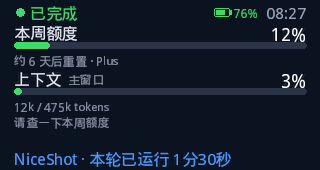
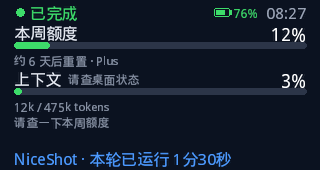
Use the Codex sidebar title beside the context row.
session_index.jsonl supplies the latest thread_name for a chat. Child
pages show that parent title, while the summary line can still be the
sub-agent task name.

Changed region(s): [[0.1875, 0.4118, 0.4375, 0.5294]]

diff --git a/host/codex_status.py b/host/codex_status.py
@@ -40,6 +40,7 @@ from parse_session import (
     merge_quota,
     parse_file,
     read_session_head,
+    thread_title_ids,
 )
 
 
@@ -105,6 +106,93 @@ def page_sort_key(payload: dict, focus_id: object) -> tuple[int, str]:
     return (0 if identity and identity == focus_id else 1, identity)
 
 
+def load_thread_titles(path: Path) -> dict[str, str]:
+    """Latest sidebar name for each thread id in ``session_index.jsonl``.
+
+    Codex appends one ``{id, thread_name, updated_at}`` line per rename.
+    The newest ``updated_at`` wins. A missing timestamp, or a tie, keeps
+    the later line.
+    """
+    best: dict[str, tuple[str, str, int]] = {}
+    try:
+        lines = path.read_text(encoding="utf-8").splitlines()
+    except OSError:
+        return {}
+    for seq, line in enumerate(lines):
+        line = line.strip()
+        if not line:
+            continue
+        try:
+            record = json.loads(line)
+        except json.JSONDecodeError:
+            continue
+        if not isinstance(record, dict):
+            continue
+        thread_id = record.get("id")
+        title = record.get("thread_name")
+        if not isinstance(thread_id, str) or not isinstance(title, str):
+            continue
+        thread_id = thread_id.strip()
+        title = title.strip()
+        if not thread_id or not title:
+            continue
+        updated = record.get("updated_at")
+        updated_at = updated.strip() if isinstance(updated, str) else ""
+        previous = best.get(thread_id)
+        if previous is None:
+            best[thread_id] = (updated_at, title, seq)
+            continue
+        old_at, _, old_seq = previous
+        if not updated_at or not old_at:
+            if seq >= old_seq:
+                best[thread_id] = (updated_at or old_at, title, seq)
+            continue
+        if updated_at > old_at or (updated_at == old_at and seq >= old_seq):
+            best[thread_id] = (updated_at, title, seq)
+    return {thread_id: title for thread_id, (_, title, _) in best.items()}
+
+
+def clip_sidebar_title(title: str, limit: int = 32) -> str:
+    if len(title) <= limit:
+        return title
+    return title[: limit - 1].rstrip() + "…"
+
+
+def apply_sidebar_title(payload: dict, view: SessionView, titles: dict[str, str]) -> dict:
+    for thread_id in thread_title_ids(view):
+        title = titles.get(thread_id)
+        if title:
+            payload["window_name"] = clip_sidebar_title(title)
+            return payload
+    return payload
+
+
+class ThreadTitleIndex:
+    """Reload ``session_index.jsonl`` only when the append-only file changes."""
+
+    def __init__(self) -> None:
+        self.path: Path | None = None
+        self.signature: tuple[int, int] | None = None
+        self.titles: dict[str, str] = {}
+
+    def get(self, codex_home: Path) -> dict[str, str]:
+        path = Path(codex_home).expanduser() / "session_index.jsonl"
+        try:
+            stat = path.stat()
+        except OSError:
+            self.path = path
+            self.signature = None
+            self.titles = {}
+            return self.titles
+        signature = (stat.st_mtime_ns, stat.st_size)
+        if self.path == path and self.signature == signature:
+            return self.titles
+        self.path = path
+        self.signature = signature
+        self.titles = load_thread_titles(path)
+        return self.titles
+
+
 def stamp_page(payload: dict, index: int, count: int) -> dict:
     payload["page_index"] = index
     payload["page_count"] = count
@@ -126,6 +214,7 @@ class Engine:
         self.hold_session: str | None = None
         self.rotation_ids: tuple[str, ...] | None = None
         self.rotation_anchor: float | None = None
+        self.thread_titles = ThreadTitleIndex()
 
     def payload(
         self,
@@ -140,6 +229,7 @@ class Engine:
             message = "还没有 Codex 会话" if sessions.is_dir() else "找不到 ~/.codex/sessions"
             return stamp_page(empty_payload(now, tz_offset_seconds, message), 1, 1)
         focus_path = self.select_main(files)
+        titles = self.thread_titles.get(codex_home)
         try:
             focus_view = self.follower.sync(focus_path)
         except OSError as exc:
@@ -156,6 +246,7 @@ class Engine:
             hook,
             is_focus=True,
             file_mtime=self.focus_mtime(focus_path, focus_view, fresh),
+            titles=titles,
         )
         running = []
         if focus_payload["status"] == "running":
@@ -170,6 +261,7 @@ class Engine:
                 hook,
                 is_focus=False,
                 file_mtime=mtime,
+                titles=titles,
             )
             if page["status"] == "running":
                 running.append(page)
@@ -307,6 +399,7 @@ class Engine:
         hook: HookHint | None,
         is_focus: bool,
         file_mtime: float | None,
+        titles: dict[str, str],
     ) -> dict:
         shown = view if (view.weekly or view.five_hour) else merge_quota(view, pool)
         payload = build_payload(
@@ -319,7 +412,7 @@ class Engine:
         )
         if payload["source"] == "session" and not payload["has_session"]:
             payload["has_session"] = True
-        return payload
+        return apply_sidebar_title(payload, view, titles)
 
     def note_focus(self, now: float, focus_payload: dict) -> None:
         status = str(focus_payload.get("status") or "")

diff --git a/firmware/scripts/preview_ui.py b/firmware/scripts/preview_ui.py
@@ -201,11 +201,11 @@ def main():
         Face(attach_levels(num_g, num_b), num_h),
     )
     states = [
-        ("running", {"link": "ok", "label": "执行中 · 跑命令", "color": "orange", "weekly": 16, "weekly_sub": "约 6 天后重置 · Pro", "context": 73.47, "context_sub": "349k / 475k tokens", "footer": "NiceShot · 本轮已运行 4分12秒", "clock": "08:27", "battery_kind": "level", "battery": 76, "battery_text": "76%", "page": "2/4", "summary": "请把桌面状态改一下", "window_name": "design review"}),
-        ("thinking", {"link": "ok", "label": "执行中 · 思考中", "color": "orange", "weekly": 16, "weekly_sub": "约 6 天后重置 · Pro", "context": 48, "context_sub": "228k / 475k tokens", "footer": "NiceShot · 本轮已运行 18秒", "clock": "08:27", "battery_kind": "level", "battery": 76, "battery_text": "76%", "summary": "请把桌面状态改一下", "window_name": "主窗口"}),
-        ("complete", {"link": "ok", "label": "已完成", "color": "green", "weekly": 12, "weekly_sub": "约 6 天后重置 · Plus", "context": 2.53, "context_sub": "12k / 475k tokens", "footer": "NiceShot · 本轮已运行 1分30秒", "clock": "08:27", "battery_kind": "level", "battery": 76, "battery_text": "76%", "summary": "请查一下本周额度", "window_name": "主窗口"}),
-        ("interrupted", {"link": "ok", "label": "已中断", "color": "red", "weekly": 20, "weekly_sub": "约 6 天后重置 · Pro", "context": 4.23, "context_sub": "20.1k / 475k tokens", "footer": "NiceShot · 本轮已运行 1分10秒", "clock": "08:27", "battery_kind": "level", "battery": 12, "battery_text": "12%", "summary": "请查一下本周额度", "window_name": "主窗口"}),
-        ("quota", {"link": "ok", "label": "额度将尽 · 思考中", "color": "red", "weekly": 96, "weekly_sub": "约 6 天后重置 · Pro", "context": 95.16, "context_sub": "452k / 475k tokens", "footer": "NiceShot · 本轮已运行 1分6秒", "clock": "08:27", "battery_kind": "level", "battery": 76, "battery_text": "76%", "summary": "请把桌面状态改一下", "window_name": "主窗口"}),
+        ("running", {"link": "ok", "label": "执行中 · 跑命令", "color": "orange", "weekly": 16, "weekly_sub": "约 6 天后重置 · Pro", "context": 73.47, "context_sub": "349k / 475k tokens", "footer": "NiceShot · 本轮已运行 4分12秒", "clock": "08:27", "battery_kind": "level", "battery": 76, "battery_text": "76%", "page": "2/4", "summary": "请把桌面状态改一下", "window_name": "请查桌面状态"}),
+        ("thinking", {"link": "ok", "label": "执行中 · 思考中", "color": "orange", "weekly": 16, "weekly_sub": "约 6 天后重置 · Pro", "context": 48, "context_sub": "228k / 475k tokens", "footer": "NiceShot · 本轮已运行 18秒", "clock": "08:27", "battery_kind": "level", "battery": 76, "battery_text": "76%", "summary": "请把桌面状态改一下", "window_name": "请查桌面状态"}),
+        ("complete", {"link": "ok", "label": "已完成", "color": "green", "weekly": 12, "weekly_sub": "约 6 天后重置 · Plus", "context": 2.53, "context_sub": "12k / 475k tokens", "footer": "NiceShot · 本轮已运行 1分30秒", "clock": "08:27", "battery_kind": "level", "battery": 76, "battery_text": "76%", "summary": "请查一下本周额度", "window_name": "请查桌面状态"}),
+        ("interrupted", {"link": "ok", "label": "已中断", "color": "red", "weekly": 20, "weekly_sub": "约 6 天后重置 · Pro", "context": 4.23, "context_sub": "20.1k / 475k tokens", "footer": "NiceShot · 本轮已运行 1分10秒", "clock": "08:27", "battery_kind": "level", "battery": 12, "battery_text": "12%", "summary": "请查一下本周额度", "window_name": "请查桌面状态"}),
+        ("quota", {"link": "ok", "label": "额度将尽 · 思考中", "color": "red", "weekly": 96, "weekly_sub": "约 6 天后重置 · Pro", "context": 95.16, "context_sub": "452k / 475k tokens", "footer": "NiceShot · 本轮已运行 1分6秒", "clock": "08:27", "battery_kind": "level", "battery": 76, "battery_text": "76%", "summary": "请把桌面状态改一下", "window_name": "请查桌面状态"}),
         ("stale", {"link": "stale", "label": "连接中断", "color": "red", "weekly": 16, "weekly_sub": "约 6 天后重置 · Pro", "context": 73.47, "context_sub": "349k / 475k tokens", "footer": "NiceShot · 上次更新 2 分钟前", "clock": "08:29", "battery_kind": "none", "battery": 0, "battery_text": "无电"}),
         ("offline", {"link": "wifi", "label": "未连接无线网络", "color": "red", "weekly": -1, "weekly_sub": "暂无数据", "context": -1, "context_sub": "暂无数据", "footer": "请检查无线网络", "clock": "--:--", "battery_kind": "usb", "battery": 0, "battery_text": "USB"}),
     ]

diff --git a/host/test_parse_session.py b/host/test_parse_session.py
@@ -19,6 +19,7 @@ from codex_status import (
     Handler,
     Service,
     client_is_local,
+    load_thread_titles,
 )
 from parse_session import HookHint, SessionFollower, hint_from_hook, parse_jsonl
 
@@ -1136,6 +1137,81 @@ class SummaryTest(unittest.TestCase):
             self.assertEqual(child["window_name"], "fix battery")
             self.assertEqual(child["context_used_tokens"], 410000)
             self.assertEqual(child["page_index"], 2)
+
+    def test_sidebar_title_is_shared_by_parent_and_child_pages(self) -> None:
+        import tempfile
+
+        with tempfile.TemporaryDirectory() as tmp:
+            root = Path(tmp) / ".codex"
+            day = root / "sessions" / "2026" / "11" / "05"
+            day.mkdir(parents=True)
+            (root / "session_index.jsonl").write_text(
+                "\n".join(
+                    [
+                        '{"id":"main-chat","thread_name":"请查桌面","updated_at":"2026-11-05T00:01:00Z"}',
+                        '{"id":"other","thread_name":"请打开新页面","updated_at":"2026-11-05T00:30:00Z"}',
+                        '{"id":"main-chat","thread_name":"请查桌面状态","updated_at":"2026-11-05T00:20:00Z"}',
+                        '{"id":"mid-agent","thread_name":"fix battery","updated_at":"2026-11-05T00:40:00Z"}',
+                    ]
+                )
+                + "\n",
+                encoding="utf-8",
+            )
+            _write(
+                day,
+                "rollout-main.jsonl",
+                "\n".join(
+                    [
+                        _line(
+                            "session_meta",
+                            {
+                                "id": "main-chat",
+                                "session_id": "main-chat",
+                                "thread_source": "user",
+                                "cwd": "/work/App",
+                                "source": "cli",
+                            },
+                        ),
+                        _line("event_msg", {"type": "task_started"}, "2026-11-05T00:23:00Z"),
+                        _line("event_msg", {"type": "user_message", "message": "请把桌面状态改一下"}, "2026-11-05T00:26:00Z"),
+                        _tokens(218000, "2026-11-05T00:26:05Z", weekly=22),
+                    ]
+                ),
+                NOW - 10,
+            )
+            _write(
+                day,
+                "rollout-child.jsonl",
+                "\n".join(
+                    [
+                        _line(
+                            "session_meta",
+                            {
+                                "id": "child",
+                                "session_id": "main-chat",
+                                "parent_thread_id": "mid-agent",
+                                "thread_source": "subagent",
+                                "agent_path": "fix_battery",
+                                "cwd": "/work/App",
+                            },
+                        ),
+                        _line("event_msg", {"type": "task_started"}, "2026-11-05T00:26:20Z"),
+                        _tokens(410000, "2026-11-05T00:26:30Z"),
+                    ]
+                ),
+                NOW,
+            )
+            titles = load_thread_titles(root / "session_index.jsonl")
+            self.assertEqual(titles["main-chat"], "请查桌面状态")
+            engine = Engine()
+            parent = engine.payload(root, NOW, TZ, None)
+            child = engine.payload(root, NOW + PAGE_DWELL_SECONDS, TZ, None)
+            self.assertEqual(parent["window_name"], "请查桌面状态")
+            self.assertEqual(parent["summary"], "请把桌面状态改一下")
+            self.assertEqual(child["session_id"], "child")
+            self.assertEqual(child["window_name"], "请查桌面状态")
+            self.assertEqual(child["summary"], "fix battery")
+            self.assertNotEqual(child["window_name"], child["summary"])
 
 
 class FontCoverageTest(unittest.TestCase):

diff --git a/host/parse_session.py b/host/parse_session.py
@@ -630,12 +630,31 @@ _WINDOW_NAME_LIMIT = 18
 _MAIN_WINDOW_NAME = "主窗口"
 
 
-def window_name(view: SessionView) -> str | None:
-    """Short name for the context row. Each rollout uses its own task name.
+def thread_title_ids(view: SessionView) -> list[str]:
+    """Ids to look up in ``session_index.jsonl`` for the sidebar title.
 
-    Sub-agents show ``agent_path`` (Codex copies ``spawn_agent.task_name``
-    there, underscores as spaces). The user's chat has no task name, so it
-    is labeled 主窗口 instead of repeating the project name.
+    A user chat is stored under its own thread id. A sub-agent usually is
+    not listed; its ``session_id`` is the parent user thread, and
+    ``parent_thread_id`` is the immediate parent. Prefer the root id so a
+    nested agent still shows the chat the user sees in the sidebar.
+    """
+    if is_child_session(view):
+        ids: list[str] = []
+        if view.root_session_id and view.root_session_id != view.session_id:
+            ids.append(view.root_session_id)
+        if view.parent_thread_id and view.parent_thread_id not in ids:
+            ids.append(view.parent_thread_id)
+        return ids
+    if view.session_id:
+        return [view.session_id]
+    return []
+
+
+def window_name(view: SessionView) -> str | None:
+    """Fallback label when ``session_index.jsonl`` has no sidebar title.
+
+    Sub-agents then show ``agent_path`` (underscores as spaces). The user's
+    chat is labeled 主窗口 instead of repeating the project name.
     """
     task = task_label(view.agent_path)
     if task:

diff --git a/firmware/src/main.cpp b/firmware/src/main.cpp
@@ -92,10 +92,9 @@ void showDemo(uint8_t index) {
   gState.pageIndex = (index == 0) ? 2 : 1;
   gState.pageCount = (index == 0) ? 4 : 1;
   const char* summary = "";
-  const char* windowName = "主窗口";
+  const char* windowName = "请查桌面状态";
   if (index == 0) {
     summary = "请把桌面状态改一下";
-    windowName = "design review";
   } else if (index == 1 || index == 2) {
     summary = "请把桌面状态改一下";
   } else if (index == 3) {

diff --git a/README.md b/README.md
@@ -20,7 +20,7 @@ CLI 和 ChatGPT 应用的 Codex 共用 `~/.codex/sessions/`。正在跑的窗口
 
 电量不在 JSON 里。固件用 GPIO4 读电池分压（一半，所以乘 2）。高于 4.3V 是充电器电压，显示 `USB`；低于 2.5V 当作没有电池，显示「无电」。这两种都不编百分比。要在板上看到页码和电量，需要重新烧录；只更新 Mac 边车时，翻页和完成提醒已经会跟着 `/status` 变。
 
-每一页的 `summary` 是这一页自己的短句，画在上下文和底部之间。主会话取最近一条真正的用户请求，套话和 `request_user_input_async` 这类 JSON 工具记录会跳过。子代理优先用 `spawn_agent` 的 `task_name`（写在 `session_meta.agent_path` 上，下划线显示成空格）。`turn_context.summary` 只是 `auto` 这类开关，不当成摘要。没有能用的句子时 `summary` 是 `null`。上下文那一行旁边还有 `window_name`：子代理是任务名，用户自己的聊天是「主窗口」。响应里只有截断后的短句，没有完整提示词或命令。
+每一页的 `summary` 是这一页自己的短句，画在上下文和底部之间。主会话取最近一条真正的用户请求，套话和 `request_user_input_async` 这类 JSON 工具记录会跳过。子代理优先用 `spawn_agent` 的 `task_name`（写在 `session_meta.agent_path` 上，下划线显示成空格）。`turn_context.summary` 只是 `auto` 这类开关，不当成摘要。没有能用的句子时 `summary` 是 `null`。上下文那一行的 `window_name` 来自 `~/.codex/session_index.jsonl` 里的侧边栏标题（同一个 id 取最新一条 `thread_name`）。子代理页用父会话的标题，不用 `agent_path` 里的内部任务名。索引里没有这条会话时，才退回「主窗口」或任务名。摘要行仍然分开：主会话是清理后的最近请求，子代理可以仍是短任务名。响应里只有截断后的短句，没有完整提示词或命令。
 
 ## 目录
 
